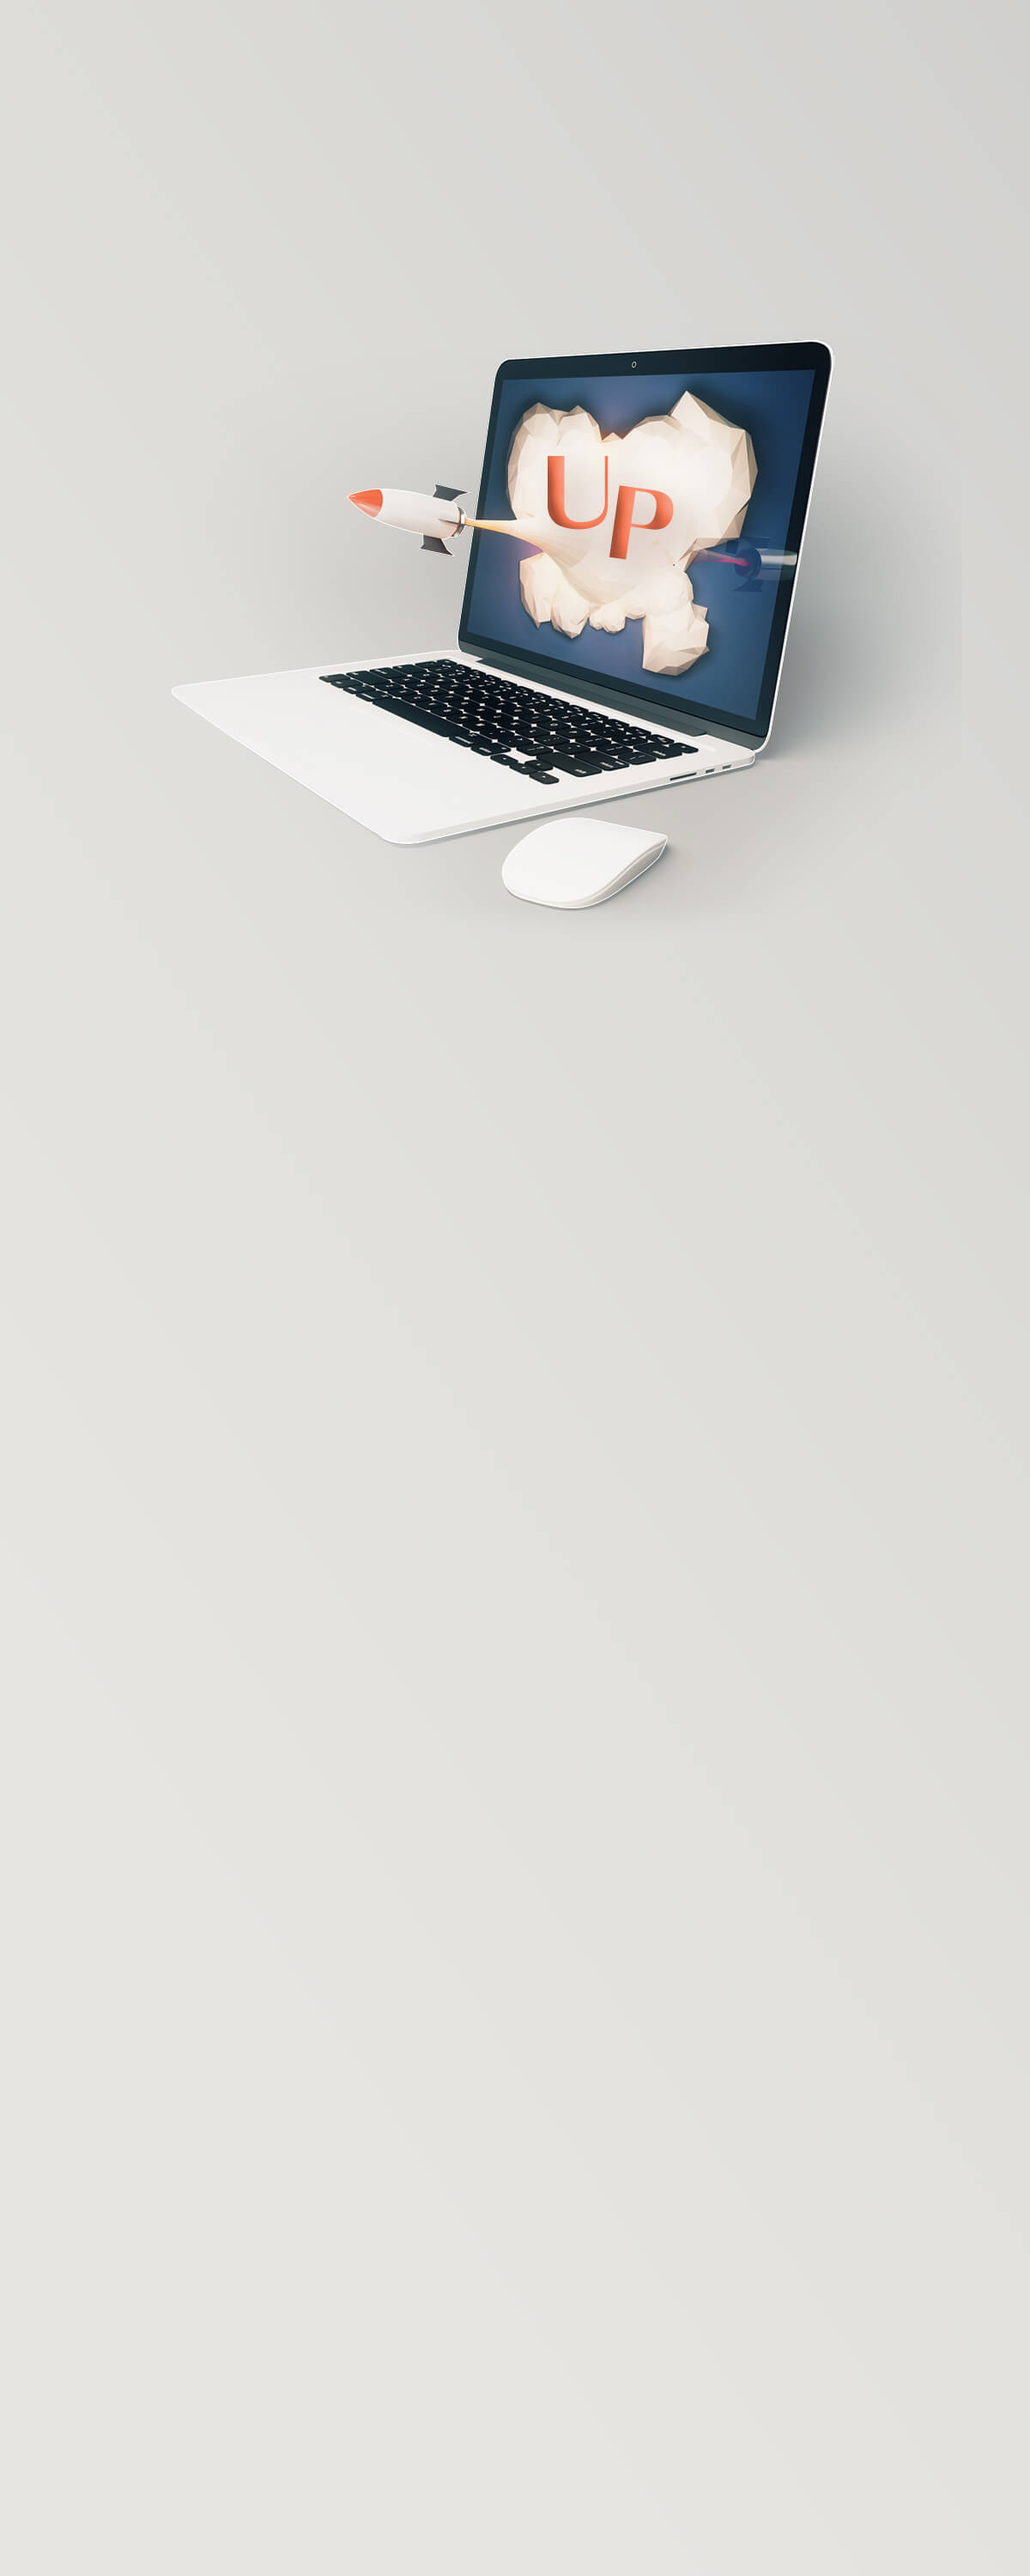
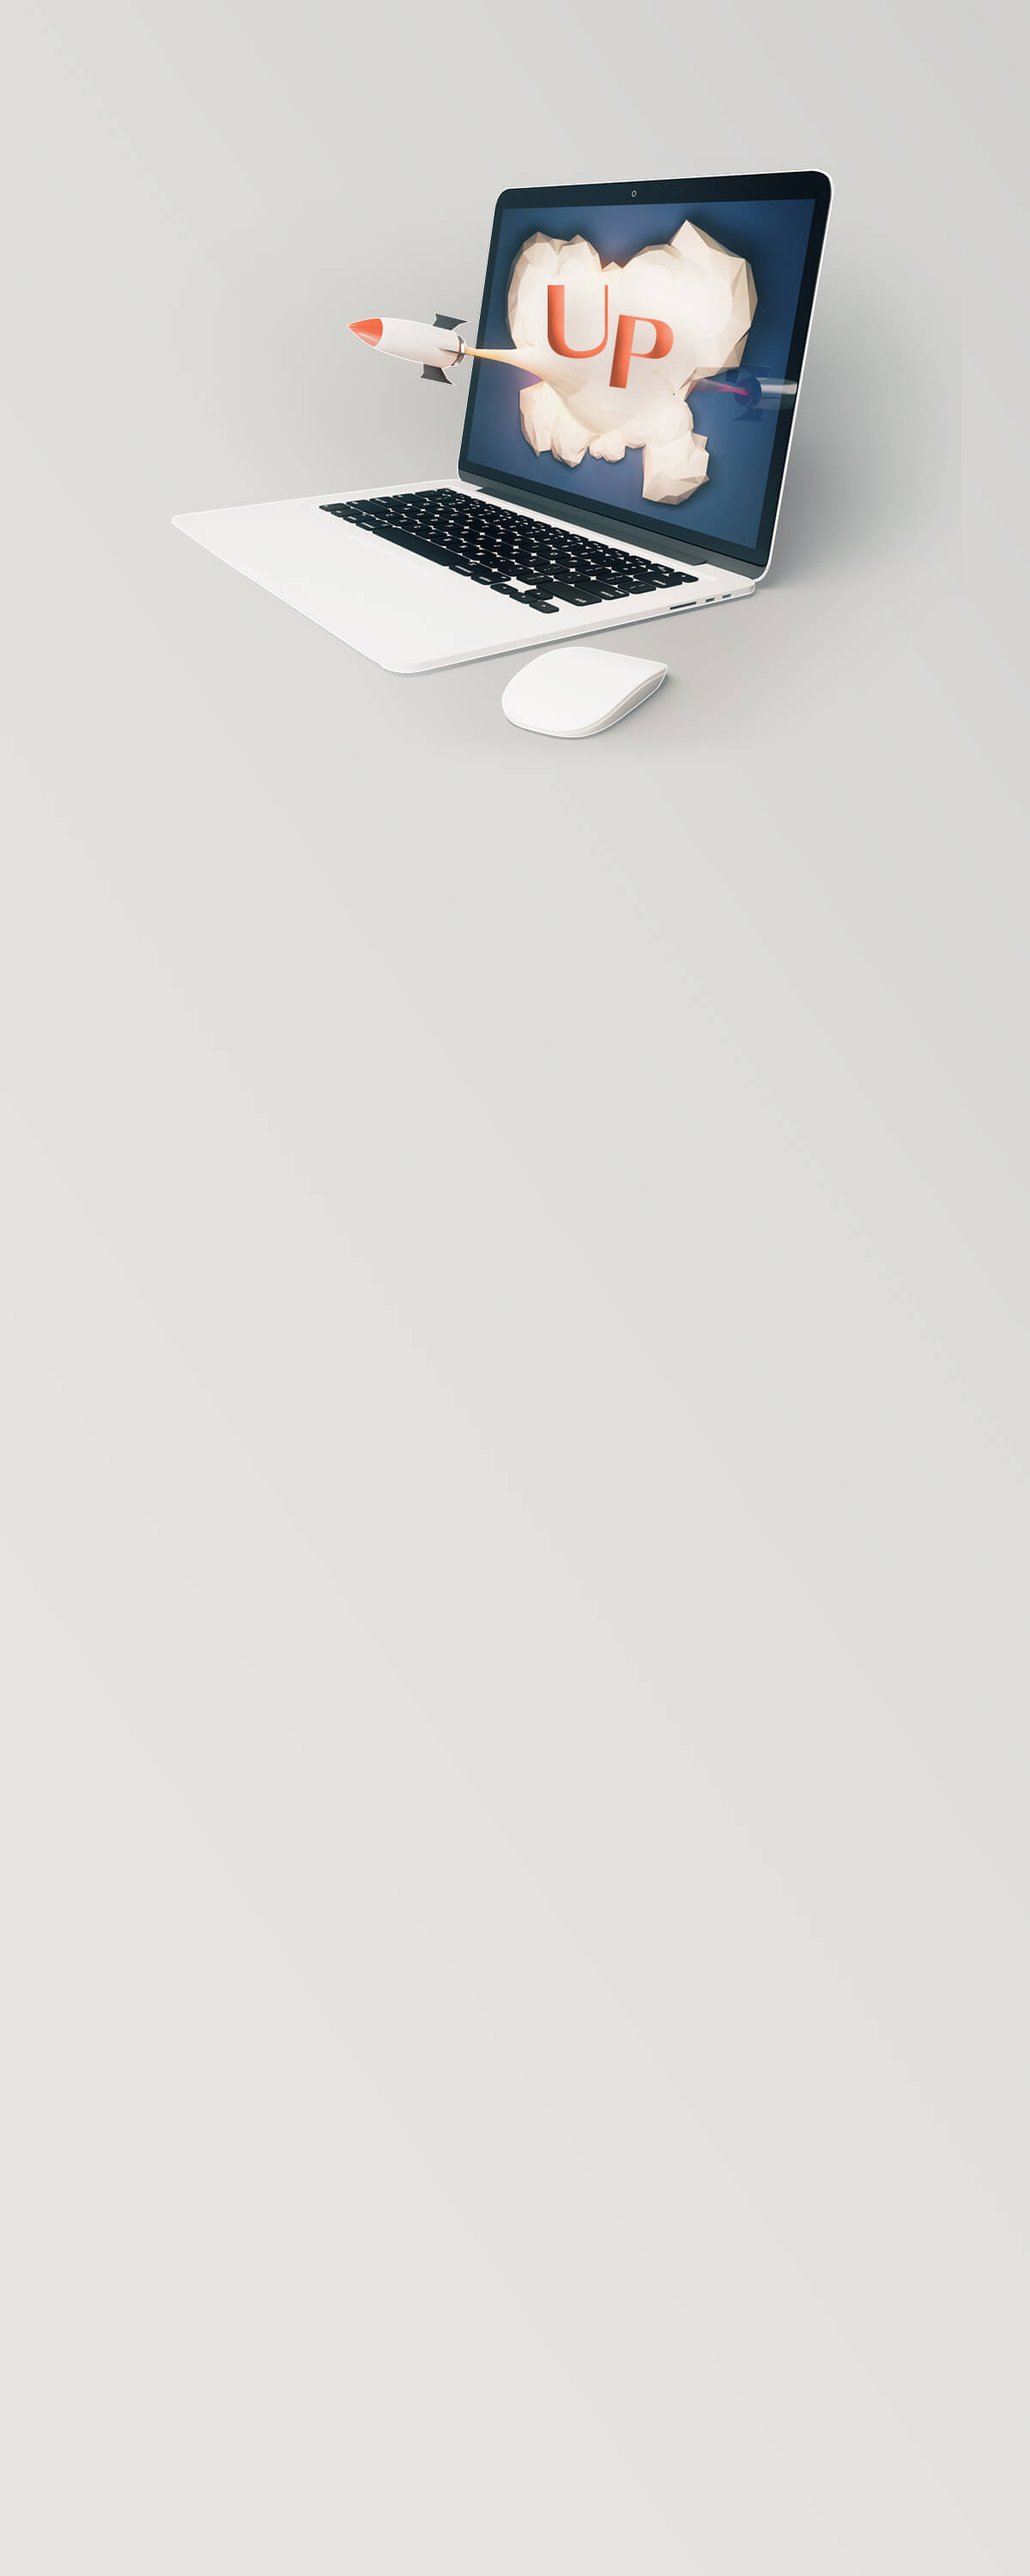
Update html + css

Changed region(s): [[0.2467, 0.062, 0.8633, 0.372], [0.3392, 0.124, 0.37, 0.155]]

diff --git a/Ad_marketing_sponsorship_2/css/style.css b/Ad_marketing_sponsorship_2/css/style.css
@@ -21,28 +21,28 @@ a:hover{ text-decoration:none;}
 select, input, textarea, button  {font-family:'Roboto', 'Noto Sans TC',Arial,"微軟正黑體","新細明體", sans-serif; font-weight: normal; color: #333;}
 *:link, *:visited, *:hover, *:active, *:focus , * {border: none;outline: none;  -webkit-box-sizing: border-box; -moz-box-sizing: border-box; box-sizing: border-box;}
 html, body{ height: 100%; }
+body{ background-color: #d9d9d9;}
 
 /*START*/
 .contents-box{ width: 100%; max-width: 1170px; margin: 0 auto;}
 
 .contact-us-box{ width: 100%; display: block;  }
-.contact-us-box .main-box{ width: 100%;  padding: 40px 0 60px 0; min-height:calc(100vh - 160px); display: block;background: url(../images/bg_00.jpg) center center no-repeat; background-size: cover; background-attachment: fixed; display: -webkit-flex; display: flex; -webkit-align-items: center; align-items: center; -webkit-justify-content: center; justify-content: center;}
+.contact-us-box .main-box{ width: 100%;  padding: 40px 0 60px 0; min-height:400px; height:100vh; background: url(../images/bg_00.jpg) center center no-repeat; background-size: cover; background-attachment: fixed; display: block; display: -webkit-flex; display: flex; -webkit-align-items: center; align-items: center; -webkit-justify-content: center; justify-content: center;}
 .contact-us-box .main-box p.sub_title{ color: #fff; font-size: 18px; text-shadow: 0 0 10px rgba(0,0,0,.3), 0 5px 8px rgba(0,0,0,.3);}
 .contact-us-box .main-box h4.title{ font-size: 18px; color: #ff9f37; text-shadow: 0 0 10px rgba(0,0,0,.3), 0 5px 8px rgba(0,0,0,.3); }
 .contact-us-box .main-box h4.title::after{ display: none;}
 
-.contact-us-box .info{ padding-bottom: 40px; margin: 0 auto;}
-.contact-us-box .info h1{ width:100%; max-width: 150px; height: 50px; text-indent: -9999px; }
-.contact-us-box .info h1 a{ width: 100%; height: 100%; display: block; background:url(../images/logo.png) center center no-repeat;  background-size: contain;}
+.contact-us-box .info{ margin: 0 auto; width: 100%;}
+.contact-us-box .info h1{ width:100%;/* max-width: 150px;*/ height: 50px; }
+.contact-us-box .info h1 a{ width: 100%; height: 100%; display: block; background:url(../images/logo.png) center right no-repeat;  background-size: contain; text-indent: -9999px; color: transparent;}
 .contact-us-box .info h1 a:hover{ opacity: .9; }
-.contact-us-box .info h2{ text-align: left; font-family: "\5FAE\8F6F\96C5\9ED1",STXihei,sans-serif;position: relative; font-weight: 600; font-size: 35px; line-height: 70px; }
-.contact-us-box h3{ line-height: 36px; color: #333; font-size: 24px; text-shadow: none; text-align: center;}
+.contact-us-box .info h2{ text-align: right; color: #fff; font-family: "\5FAE\8F6F\96C5\9ED1",STXihei,sans-serif;position: relative; font-weight: 600; font-size: 35px; line-height: 70px; }
+.contact-us-box h3{ line-height: 36px; color: #333; padding: 0 20px; font-size: 24px; text-shadow: none; text-align: left;}
 .contact-us-box h3 span.yellow{color: #ffeb3b; padding: 5px 10px; border:2px solid #ffeb3b; display: inline-block; margin-top: 15px;text-shadow: none; }
 .contact-us-box h3.title { display: inline-block; float: left; text-align: left; font-size: 16px; position: relative; }
 .contact-us-box h3.title span.big{ font-size: 28px; }
 .contact-us-box h3.title span.green{font-weight: bold; color: #009688;}
 .contact-us-box p.sub_title{  padding: 12px 0; font-size: 17px; line-height: 28px; letter-spacing: 1px;}
-
 .contact-us-box p.btn { float: right; width: 100%; font-size: 18px; margin: 15px 0; cursor: pointer;}
 .contact-us-box p.btn a{ width: 100%; max-width: 280px; background-color: #f42c37; color: #fff; padding: 18px 26px; border-radius: 4px; display: inline-block; box-shadow: 0 4px 0px #b6121f;}
 .contact-us-box p.btn a:hover{background-color: #ff0f0f;}
@@ -72,26 +72,26 @@ html, body{ height: 100%; }
 .question-box textarea.tbox{ min-height: 120px; }
 
 .main-text-box{ width: 100%;}
-.main-text-box .abox{ float:left; padding:15px 20px; min-height: 160px; display: -webkit-flex; display: flex; -webkit-align-items: center; align-items: center; -webkit-justify-content: center; justify-content: center;}
-.main-text-box .lbox{ background-color: #333; width: 35%; text-align: right;}
+.main-text-box .abox{ float:left; padding:15px 20px; min-height: 190px; display: -webkit-flex; display: flex; -webkit-align-items: center; align-items: center; -webkit-justify-content: center; justify-content: center;}
+.main-text-box .lbox{ background-color: #333; width: 35%; text-align: right; padding:15px 30px;}
 .main-text-box .lbox span{ font-size: 28px; }
 .main-text-box .lbox p{ width: 100%; }
 .main-text-box .rbox{ background-color: #009688; width: 65%; justify-content: left; }
 .main-text-box .rbox span{ color: #fcff3b; cursor: pointer; font-size: 24px; display: block; border:2px solid #fcff3b; padding:12px 20px; border-radius: 8px; }
 .main-text-box .rbox span:hover{ background-color: #fcff3b; color: #009688; }
 
-.main-text-box p{ color: #fff; font-size: 18px; /*width: 100%; */}
+.main-text-box p{ color: #fff; font-size: 18px;}
 .main-text-box .rbox .lb{ float: left; padding-left: 20px; }
 .main-text-box .rbox .rb{ float: right; min-height: 102px; width: 280px; display: -webkit-flex; display: flex; -webkit-align-items: center; align-items: center; -webkit-justify-content: center; justify-content: center;}
 .main-text-box .rbox-w{ width: 100%; height: 100%; max-width: 760px;}
 
-.free_service{padding: 40px 0;}
-.free_service ul.tags{ text-align: center; max-width: 800px; padding: 30px 0; margin: 0 auto; }
+.free_service{ padding: 40px 0; background-color: rgba(256,256,256,.8);}
+.free_service ul.tags{ text-align: left; padding: 30px 0; margin: 0 auto; }
 .free_service ul.tags li{ display: inline-block; margin: 5px; }
 .free_service ul.tags li p{padding: 10px 25px; border-radius: 50px; letter-spacing: 1px; font-size: 14px; border:1px solid #d7d7d7; background-color: #cbdcb6;}
 
 ul.plan{ width: 100%; padding:40px 0 20px 0; text-align: left; }
-ul.plan li{ width: 30%; margin: 0 1.5% 15px 1.5%; max-width: 500px; float: left; background-color: #fff; border-radius: 10px; /*overflow: hidden;*/ position: relative; }
+ul.plan li{ width: 30%; margin: 0 1.5% 15px 1.5%; max-width: 500px; float: left; background-color: #fff; border-radius: 10px; position: relative; }
 ul.plan li h4.top_title{ width: 100%; background-color: #009688; text-align: center; color: #fff; padding: 15px 10px; font-size: 20px; position: relative; padding-top: 80px;padding-bottom: 20px; border-radius: 10px 10px 0 0;}
 ul.plan li h4.top_title::after{ content: ""; position: absolute; font-family: 'Roboto', 'Noto Sans TC',Arial,"微軟正黑體","新細明體", sans-serif; font-size: 34px; width: 100%; text-align:center; display: inline-block; top: 15px; left: 0; line-height: 60px; color: #fff; font-weight: bold; }
 ul.plan li h4.top_title span{ font-size: 18px; padding-top: 10px; color: #fcff3b; display: inline-block; }
@@ -148,7 +148,8 @@ ul.contactus li a.icon_email::after{ background-image: url(../images/btn_contact
 .copyrights{ width: 100%; padding:30px 0; background-color: #333;}
 .copyrights p{ text-align: center; color: #fff;  letter-spacing: 1px; line-height: 35px; font-size: 13px; }
 
-.from-box{ background-color: #9e9e9e2b; padding: 40px 0; text-align: center; }
+.from-box{ padding: 40px 0; text-align: center; background-color: #e9e9e9; }
+.contact-us-box .from-box h3{ text-align: center; }
 
 @media (max-width:1220px){
   .contents-box{ max-width: 90%;}
@@ -165,10 +166,13 @@ ul.contactus li a.icon_email::after{ background-image: url(../images/btn_contact
 }
 @media (max-width:800px){
   .contact-us-box .main-box{ min-height: initial; background-image: url(../images/bg_00_m.jpg); background-attachment: inherit; }
+  .contact-us-box h3{ text-align: center; padding: 0;}
   .contact-us-box h3.title span.block{ display: block; }
   .contact-us-box h3.title span.none{ display: none; }
-  .contact-us-box .info h1{margin: 0 auto;}
-  .contact-us-box .info h2{ text-align: center; }
+  .free_service ul.tags{text-align: center;}
+  .contact-us-box .info h1{margin: 0 auto; margin-bottom: 5px;}
+  .contact-us-box .info h1 a{ background-position: center center; }
+  .contact-us-box .info h2{ text-align: center; line-height: 48px; }
 }
 @media (max-width:750px){
   .question-box ul.fillinBox{max-width: 100%;}

diff --git a/Ad_marketing_sponsorship_2/index.html b/Ad_marketing_sponsorship_2/index.html
@@ -28,29 +28,14 @@
 <body>
 
 <main class="contact-us-box">
-    <section class="main-box">
-        <div class="contents-box clearfix">
-	        <div class="info">
-                <h1 class="logo"><a href="https://www.holkee.com/" target="_blank">holkee</a></h1>
-	        	<h2>廣告行銷贊助計畫</h2>
-	        </div>
-            <div class="question-box">
-                <h3 class="title"><span class="big">致</span>未來的大老闆，<br>
-                    <span class="green">在創業的時代要如何崛起，<span class="block">讓我們的專業加入你！</span></span><span class="none"><br></span>
-                    holkee 專屬小店服務行銷團隊，<span class="block">替你打造最有效益的廣告行銷方案。</span><span class="none"><br></span>
-                    讓你的產業坐上火箭，<span class="block">衝上雲端的世界。</span><span class="none"><br></span>
-                    誰說小老闆不能有大大的夢想？<br>
-                    創業的繁瑣、不被看見的苦楚，<span class="block">蠟燭兩頭燒的日子該停了！</span><span class="none"><br></span>
-                    給自己一個機會『翻轉未來』，<span class="block">讓 holkee 專屬小店服務行銷團隊幫助自己，</span><span class="none"><br></span>
-                    不再讓夢想支配我，而是自己支配理想。
-                </h3>
-             </div>
-	    </div>
-    </section>
     <section class="main-text-box clearfix">
         <div class="abox lbox clearfix">
-             <p>只有我們真正在乎你！<br>
-                <span>holkee 小資廣告 - <span class="block">未來大老闆方案</span></span></p>
+             <!-- <p>只有我們真正在乎你！<br>
+                <span>holkee 小資廣告 - <span class="block">未來大老闆方案</span></span></p> -->
+            <div class="info">
+                <h1 class="logo"><a href="https://www.holkee.com/" target="_blank">holkee</a></h1>
+                <h2>廣告行銷贊助計畫</h2>
+            </div>
         </div>
         <div class="abox rbox clearfix">
             <div class="rbox-w clearfix" >
@@ -82,7 +67,22 @@
             </ul>
         </div>
     </section>
-    <section class="from-box" id="move_goto_01">
+    <section class="main-box">
+        <div class="contents-box clearfix">
+            <div class="question-box">
+                <h3 class="title"><span class="big">致</span>未來的大老闆，<br>
+                    <span class="green">在創業的時代要如何崛起，<span class="block">讓我們的專業加入你！</span></span><span class="none"><br></span>
+                    holkee 專屬小店服務行銷團隊，<span class="block">替你打造最有效益的廣告行銷方案。</span><span class="none"><br></span>
+                    讓你的產業坐上火箭，<span class="block">衝上雲端的世界。</span><span class="none"><br></span>
+                    誰說小老闆不能有大大的夢想？<br>
+                    創業的繁瑣、不被看見的苦楚，<span class="block">蠟燭兩頭燒的日子該停了！</span><span class="none"><br></span>
+                    給自己一個機會『翻轉未來』，<span class="block">讓 holkee 專屬小店服務行銷團隊幫助自己，</span><span class="none"><br></span>
+                    不再讓夢想支配我，而是自己支配理想。
+                </h3>
+             </div>
+        </div>
+    </section>
+    <section class="from-box" id="move_goto_01"><a name="goform"></a>
         <div class="contents-box clearfix">
             <div class="question-box">
                 <h3>領取贊助金或由專人為您服務</h3>
@@ -100,14 +100,6 @@
                         <li class="pos icon_07">
                             <input type="text" class="tbox" value="" size="" placeholder="聯絡E-mail">
                         </li>
-                        <!-- <li class="pos icon_04">
-                            <select class="md-input" name="" required="" data-parsley-min="1" data-parsley-min-message="請選擇廣告方案">
-                                <option value="0" selected="selected" class="gray" style="color: #888;">請選擇廣告方案</option>
-                                <option value="1">holkee 小資廣告方案 - $6,000</option>
-                                <option value="2">holkee 精英廣告方案 - $18,000</option>
-                                <option value="3">holkee VIP 廣告方案 - $48,000</option>
-                                </select>
-                        </li> -->
                     </ul>
                     <div class="btn"><button>確認送出</button></div>
                 </form>
@@ -115,7 +107,7 @@
                 <p class="sub_title">歡迎使用以下方式與我們聯繫</p>
                 <ul class="contactus clearfix">
                     <li><a class="icon_messenger" target="_blank" href="https://www.messenger.com/t/holkeego">Messenger</a></li>
-                    <li><a class="icon_line" class="icon_01" target="_blank" href="https://line.me/R/ti/p/%40bca1493j">LINE</a></li>
+                    <li><a class="icon_line" target="_blank" href="https://line.me/R/ti/p/%40bca1493j">LINE</a></li>
                     <li><a class="icon_email" target="_blank" href="mailto:service@holkee.com">Email</a></li>
                 </ul>
                 <p>客服服務時間為周一至周五，09:00 ~ 18:00<br>我們會盡速回覆您，謝謝！</p>
